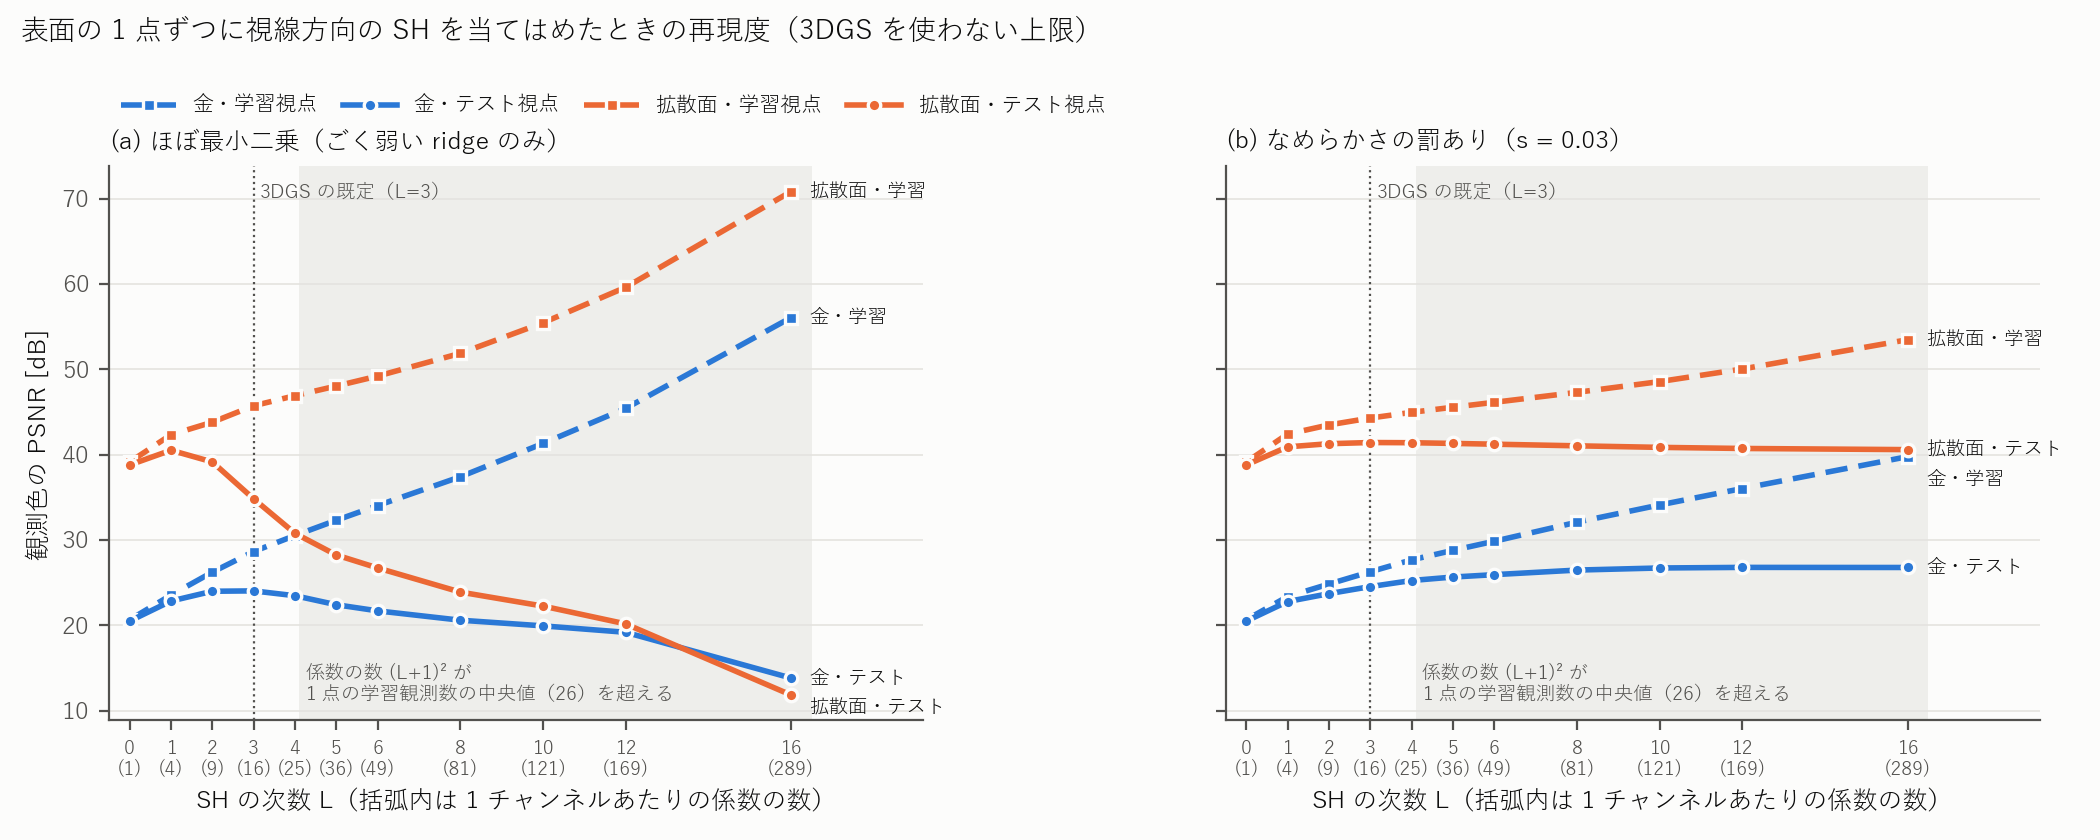
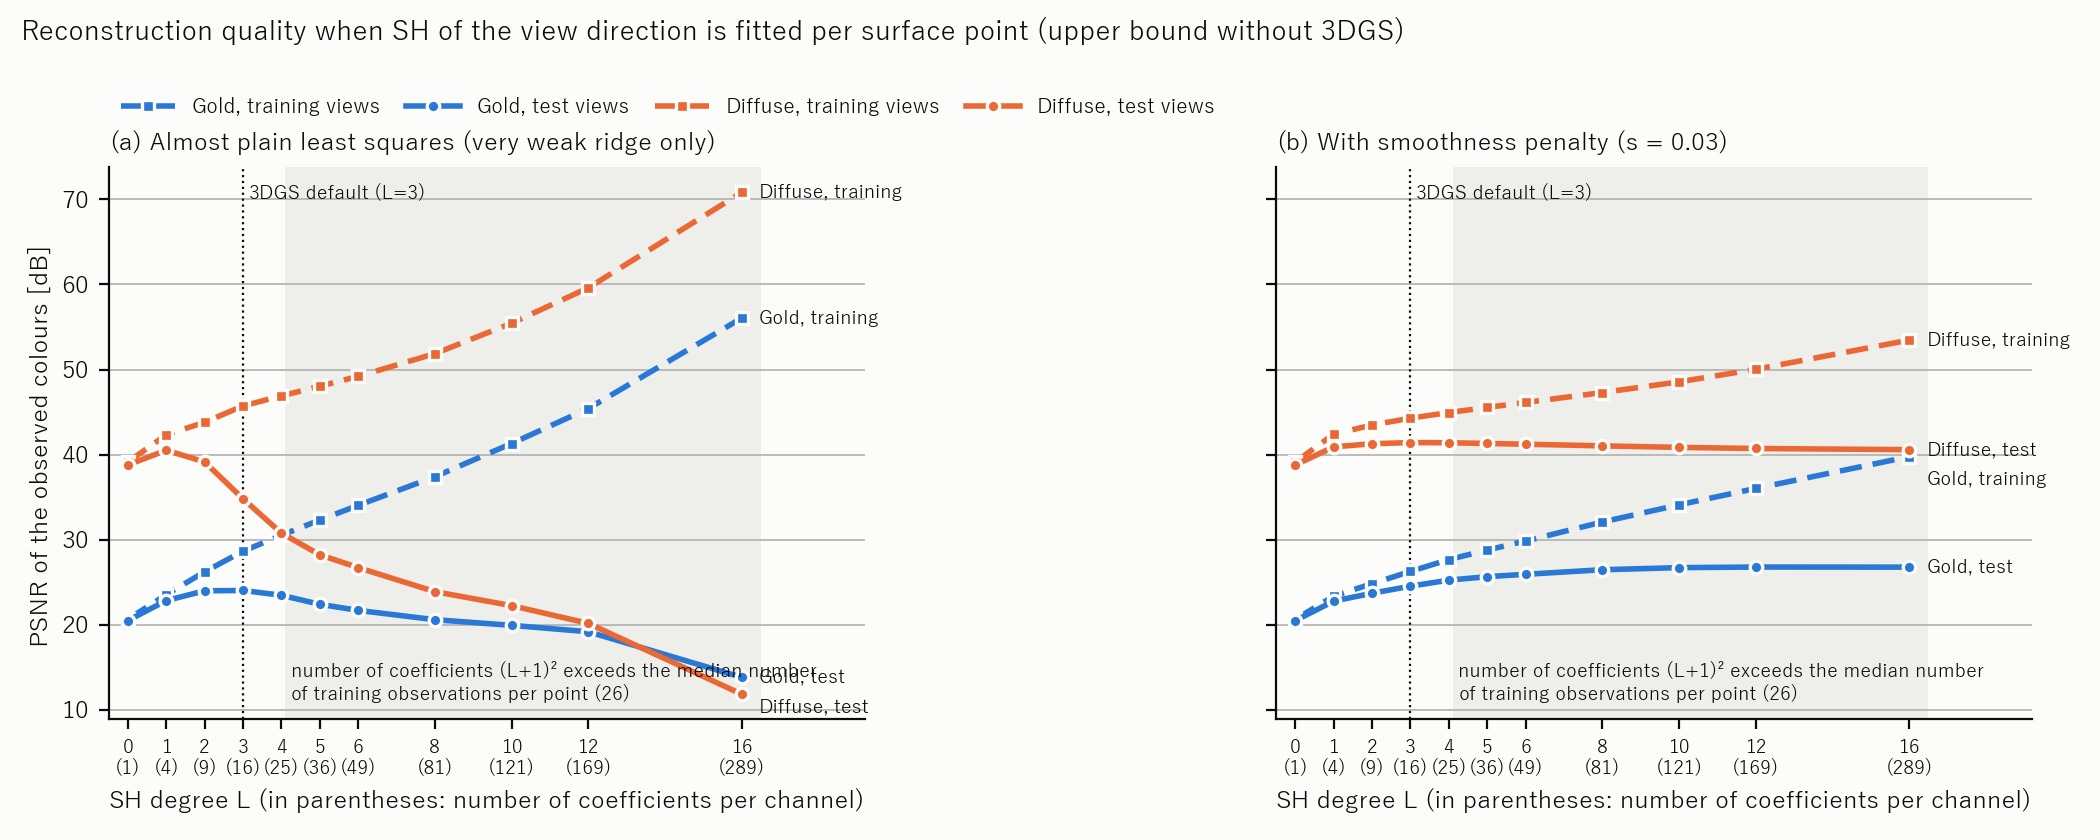
gloss の図の目盛り・軸・格子線を見やすい色にする
目盛りの数字・軸の名前・軸の線を灰色から黒に、格子線を濃い灰色にした。
保存済みの結果や再計算から描ける 8 枚を描き直した（env_rough と env_rough_check の図は未更新）。
数値の結果ファイルは変えていない。

diff --git a/experiments/gloss/sh_oracle.py b/experiments/gloss/sh_oracle.py
@@ -46,7 +46,9 @@ LUMA = torch.tensor([0.2126, 0.7152, 0.0722], dtype=torch.float64)
 
 # Figure colours (dataviz reference palette: categories 1, 2 and the text / surface colours)
 C_SERIES = {"gold": "#2a78d6", "matte": "#eb6834"}
-C_TEXT, C_TEXT2, C_GRID, C_SURF = "#0b0b0b", "#52514e", "#e4e3df", "#fcfcfb"
+# Text, ticks and axis lines are black. Grid lines are a clearly visible gray (pale gray is unreadable).
+# C_SHADE is only for shaded background regions.
+C_TEXT, C_GRID, C_SHADE, C_SURF = "#0b0b0b", "#b0b0b0", "#e4e3df", "#fcfcfb"
 LABEL = {"gold": "Gold", "matte": "Diffuse"}
 
 
@@ -159,8 +161,8 @@ def plot_curves(res, n_obs_median, path):
     import matplotlib.pyplot as plt
 
     plt.rcParams.update({"font.family": ["Yu Gothic", "Meiryo", "MS Gothic"], "font.size": 9,
-                         "axes.edgecolor": C_TEXT2, "axes.labelcolor": C_TEXT, "xtick.color": C_TEXT2,
-                         "ytick.color": C_TEXT2, "text.color": C_TEXT})
+                         "axes.edgecolor": C_TEXT, "axes.labelcolor": C_TEXT, "xtick.color": C_TEXT,
+                         "ytick.color": C_TEXT, "text.color": C_TEXT})
     fig, axes = plt.subplots(1, 2, figsize=(10.5, 4.2), dpi=200, facecolor=C_SURF, sharey=True)
     degs = res["degrees"]
     L_over = math.sqrt(n_obs_median) - 1  # the degree at which the number of coefficients (L+1)^2 exceeds the median number of training observations per point
@@ -168,11 +170,11 @@ def plot_curves(res, n_obs_median, path):
               (f"(b) With smoothness penalty (s = {SMOOTH_FIG:g})", lambda r: r["smooth_check"][str(SMOOTH_FIG)])]
     for ax, (title, get) in zip(axes, panels):
         ax.set_facecolor(C_SURF)
-        ax.axvspan(L_over, degs[-1] + 0.5, color=C_GRID, alpha=0.55, lw=0)
+        ax.axvspan(L_over, degs[-1] + 0.5, color=C_SHADE, alpha=0.55, lw=0)
         ax.text(L_over + 0.15, 0.03, f"number of coefficients (L+1)² exceeds the median number\nof training observations per point ({n_obs_median:.0f})",
-                transform=ax.get_xaxis_transform(), fontsize=7, color=C_TEXT2, va="bottom")
-        ax.axvline(3, color=C_TEXT2, lw=0.8, ls=":")
-        ax.text(3.15, 0.97, "3DGS default (L=3)", transform=ax.get_xaxis_transform(), fontsize=7, color=C_TEXT2,
+                transform=ax.get_xaxis_transform(), fontsize=7, color=C_TEXT, va="bottom")
+        ax.axvline(3, color=C_TEXT, lw=0.8, ls=":")
+        ax.text(3.15, 0.97, "3DGS default (L=3)", transform=ax.get_xaxis_transform(), fontsize=7, color=C_TEXT,
                 va="top")
         ends = []
         for cond in res["conditions"]:

diff --git a/experiments/gloss/plot_deferred.py b/experiments/gloss/plot_deferred.py
@@ -235,9 +235,9 @@ def plot_summary(R, path):
         h = np.array(g["hist_opacity_weighted"])
         ax.step(np.r_[e[:-1], e[-1]], np.r_[h, h[-1]] / h.sum() / np.diff(e)[0], where="post", color=C_MODE[m], lw=1.4,
                 label=MODE_LABEL[m])
-    ax.axvspan(-1.3, 1.3, color=so.C_GRID, alpha=0.8, lw=0, zorder=0)
-    ax.axvline(0, color=so.C_TEXT2, lw=1.0, ls=(0, (4, 3)))
-    ax.text(1.6, ax.get_ylim()[1] * 0.92, "range of the bump\ndisplacement", fontsize=6.8, color=so.C_TEXT2, va="top")
+    ax.axvspan(-1.3, 1.3, color=so.C_SHADE, alpha=0.8, lw=0, zorder=0)
+    ax.axvline(0, color=so.C_TEXT, lw=1.0, ls=(0, (4, 3)))
+    ax.text(1.6, ax.get_ylim()[1] * 0.92, "range of the bump\ndisplacement", fontsize=6.8, color=so.C_TEXT, va="top")
     ax.set_xlabel("Offset from the reference sphere [mm] (negative is inside)", fontsize=8)
     ax.set_ylabel("Fraction [1/mm] (weighted by opacity)", fontsize=8)
     ax.legend(loc="upper left", fontsize=6.8, frameon=False)
@@ -313,7 +313,7 @@ def plot_maps(path):
                 v = np.degrees(x.cpu().numpy())
                 v = np.where(fg, v, np.nan)
                 im = ax.imshow(v[lo:hi, lo:hi], cmap=cmap, norm=norm, extent=(lo, hi, hi, lo), interpolation="nearest")
-            line = "#fcfcfb" if j < 3 else so.C_TEXT2
+            line = "#fcfcfb" if j < 3 else so.C_TEXT
             for kk, (sname, _, _) in enumerate(ms.SECTORS):
                 u, v_, cv = sr._meridian(c, frm[k], ms.SECTOR_DEG * kk, np.linspace(-62, 62, 80))
                 ax.plot(np.where(cv > 0.3, u, np.nan), np.where(cv > 0.3, v_, np.nan), color=line, lw=0.7,
@@ -330,7 +330,7 @@ def plot_maps(path):
                 ax.set_title(cols[j], fontsize=8.5, loc="left")
             if j == 0:
                 ax.text(-0.02, 0.5, f"Test view {k}\n{note}", transform=ax.transAxes, rotation=90, ha="right",
-                        va="center", fontsize=7.5, color=so.C_TEXT2)
+                        va="center", fontsize=7.5, color=so.C_TEXT)
     cax = fig.add_subplot(gs_[:, 5])
     cb = fig.colorbar(im, cax=cax)
     cb.set_label("Blur σ in the reflection direction [degrees]", fontsize=8)

diff --git a/experiments/gloss/sphere_rough.py b/experiments/gloss/sphere_rough.py
@@ -495,7 +495,7 @@ def plot_results(out, path):
         _axes_style(ax)
         rows = [R[k]["sectors"][name] for k in sc]
         design = rows[0]["design_blur_deg"]
-        ax.axhline(design, color=so.C_TEXT2, lw=1.0, ls=(0, (4, 3)),
+        ax.axhline(design, color=so.C_TEXT, lw=1.0, ls=(0, (4, 3)),
                    label="Conversion: sufficiently large footprint (2 × design tilt)" if j == 0 else None)
         for key, lab, col, mk, lw in series:
             if key == "fitted":
@@ -548,7 +548,7 @@ def plot_results(out, path):
     ax = fig.add_subplot(gs_[1, 4:])
     _axes_style(ax)
     top = 34
-    ax.plot([0, top], [0, top], color=so.C_TEXT2, lw=1.0, ls=(0, (4, 3)), label="y = x")
+    ax.plot([0, top], [0, top], color=so.C_TEXT, lw=1.0, ls=(0, (4, 3)), label="y = x")
     groups = [(["brdf3", "brdf6", "brdf12"], "fitted_all", C_CAT[4], "GGX sectors (smooth shape)"),
               (["bump3", "bump6", "bump12"], "fitted_geom", C_CAT[0], "Bump sectors")]
     for names, key, col, lab in groups:
@@ -567,7 +567,7 @@ def plot_results(out, path):
     ax.set_ylabel("Optimal per-point blur σ [degrees] (mean, the lines are 25–75%)", fontsize=8)
     ax.legend(loc="upper left", fontsize=7.2, frameon=False)
     ax.text(0.98, 0.03, "Marker shape is the pixel size (○ 512 / △ 256 / □ 128 px)", transform=ax.transAxes, ha="right",
-            fontsize=7, color=so.C_TEXT2)
+            fontsize=7, color=so.C_TEXT)
     ax.set_title("(e) Blur corresponding to the material roughness", fontsize=9, loc="left")
     fig.suptitle("Bumpy sphere: blur optimized per point, and the conversion from the normal variation within a pixel", fontsize=10.5, x=0.01,
                  y=0.995, ha="left")

diff --git a/experiments/gloss/env_rough.py b/experiments/gloss/env_rough.py
@@ -340,8 +340,8 @@ def setup_plt():
     import matplotlib.pyplot as plt
 
     plt.rcParams.update({"font.family": ["Yu Gothic", "Meiryo", "MS Gothic"], "font.size": 9,
-                         "axes.edgecolor": so.C_TEXT2, "axes.labelcolor": so.C_TEXT, "xtick.color": so.C_TEXT2,
-                         "ytick.color": so.C_TEXT2, "text.color": so.C_TEXT})
+                         "axes.edgecolor": so.C_TEXT, "axes.labelcolor": so.C_TEXT, "xtick.color": so.C_TEXT,
+                         "ytick.color": so.C_TEXT, "text.color": so.C_TEXT})
     return plt
 
 
@@ -353,7 +353,7 @@ def scatter_panel(ax, meas_deg, fit_deg, title, ylabel="Optimal per-point blur w
     rng = np.random.default_rng(0)
     jit = rng.uniform(-0.35, 0.35, len(fit_deg))  # the vertical axis takes only grid values, so jitter a little to show overlaps
     ax.scatter(meas_deg, fit_deg + jit, s=5, color=so.C_SERIES["gold"], alpha=0.25, lw=0, label="Points (points where the roughness is determined by the observations)")
-    ax.plot([0, top], [0, top], color=so.C_TEXT2, lw=1.0, ls=(0, (4, 3)), label="y = x (as converted)")
+    ax.plot([0, top], [0, top], color=so.C_TEXT, lw=1.0, ls=(0, (4, 3)), label="y = x (as converted)")
     edges = np.quantile(meas_deg, np.linspace(0, 1, 9))
     xc, med, q1, q3 = [], [], [], []
     for a, b in zip(edges[:-1], edges[1:]):

diff --git a/experiments/gloss/env_oracle.py b/experiments/gloss/env_oracle.py
@@ -232,7 +232,7 @@ def plot_bars(rows, path):
     import matplotlib.pyplot as plt
 
     plt.rcParams.update({"font.family": ["Yu Gothic", "Meiryo", "MS Gothic"], "font.size": 9,
-                         "axes.edgecolor": so.C_TEXT2, "xtick.color": so.C_TEXT2, "ytick.color": so.C_TEXT})
+                         "axes.edgecolor": so.C_TEXT, "xtick.color": so.C_TEXT, "ytick.color": so.C_TEXT})
     fig, ax = plt.subplots(figsize=(7.2, 0.62 * len(rows) + 1.0), dpi=200, facecolor=so.C_SURF)
     ax.set_facecolor(so.C_SURF)
     h = 0.36
